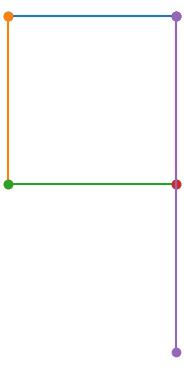
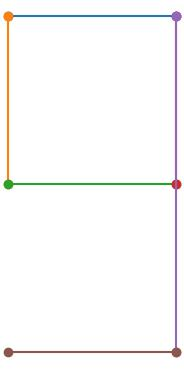
changing coordination of 9

Changed region(s): [[0.8967, 0.9241, 1.0, 0.9837], [0.0, 0.9241, 0.0815, 0.9837]]

diff --git a/Shape_detection/visualization.py b/Shape_detection/visualization.py
@@ -13,7 +13,7 @@ shapes = {
     '6': [(0, 0), (0, -4), (2, -4), (2, -2), (0, -2)],
     '7': [(0, 0), (2, 0), (2, -4)],
     '8': [(0, 0), (2, 0), (2, -2), (0, -2), (0, -4), (2, -4), (2, -2), (0, -2), (0, 0)],
-    '9': [(0, 0), (-2, 0), (-2, -2), (0, -2), (0, 0), (0, -4)],
+    '9': [(0, 0), (-2, 0), (-2, -2), (0, -2), (0, 0), (0, -4), (-2, -4)],
     'a': [(0, 0), (-2, 0), (-2, 2), (0, 2), (0, -0.2), (0.2, -0.2)],
     'b': [(0, 0), (2, 0), (2, -2), (0, -2), (0, 2)],
     'c': [(0, 0), (-2, 0), (-2, -2), (0, -2)],
@@ -54,9 +54,9 @@ def visualize_and_save_shapes_with_arrows(shapes, save_path):
             start = vertices[i]
             end = vertices[i + 1]
             plt.plot([start[0], end[0]], [start[1], end[1]], marker='o')
-            # with arrow
-            #plt.arrow(start[0], start[1], end[0] - start[0], end[1] - start[1],
-            #          head_width=0.2, length_includes_head=True, color='blue')
+            #with arrow
+            plt.arrow(start[0], start[1], end[0] - start[0], end[1] - start[1],
+                      head_width=0.2, length_includes_head=True, color='blue')
 
         plt.gca().set_aspect('equal', adjustable='box')
         

diff --git a/Shape_detection/drawing.py b/Shape_detection/drawing.py
@@ -28,7 +28,7 @@ shapes = {
     '6': [(0, 0), (0, -4), (2, -4), (2, -2), (0, -2)],
     '7': [(0, 0), (2, 0), (2, -4)],
     '8': [(0, 0), (2, 0), (2, -2), (0, -2), (0, -4), (2, -4), (2, -2), (0, -2), (0, 0)],
-    '9': [(0, 0), (-2, 0), (-2, -2), (0, -2), (0, 0), (0, -4)],
+    '9': [(0, 0), (-2, 0), (-2, -2), (0, -2), (0, 0), (0, -4), (-2, -4)],
     'a': [(0, 0), (-2, 0), (-2, 2), (0, 2), (0, -0.2), (0.2, -0.2)],
     'b': [(0, 0), (2, 0), (2, -2), (0, -2), (0, 2)],
     'c': [(0, 0), (-2, 0), (-2, -2), (0, -2)],
